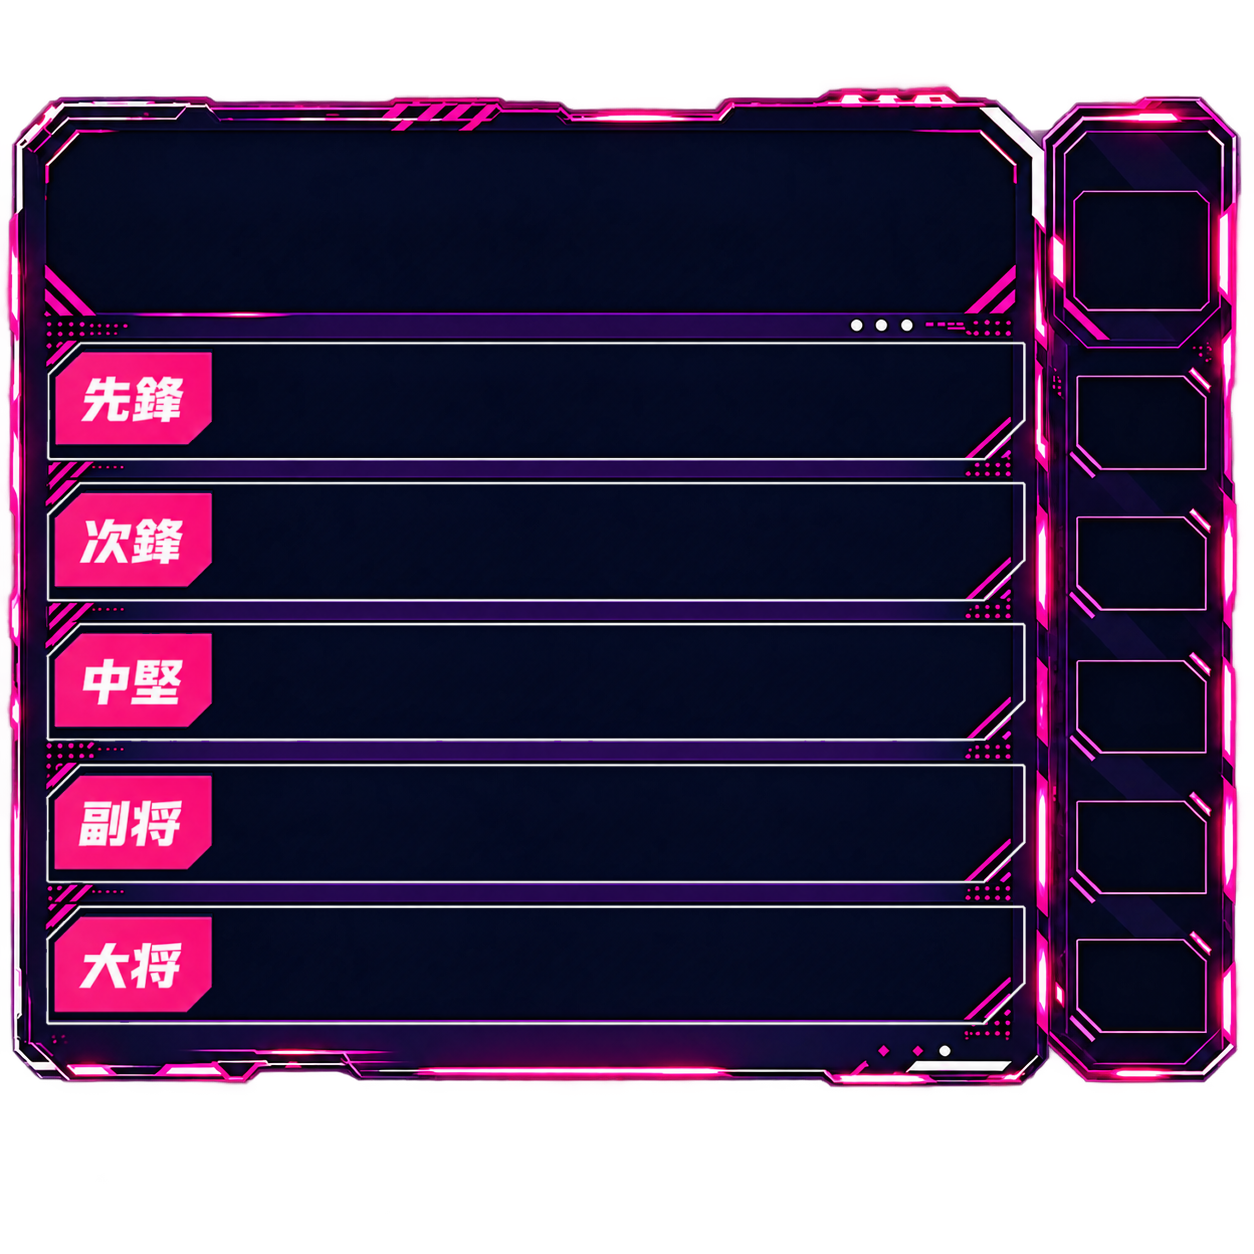
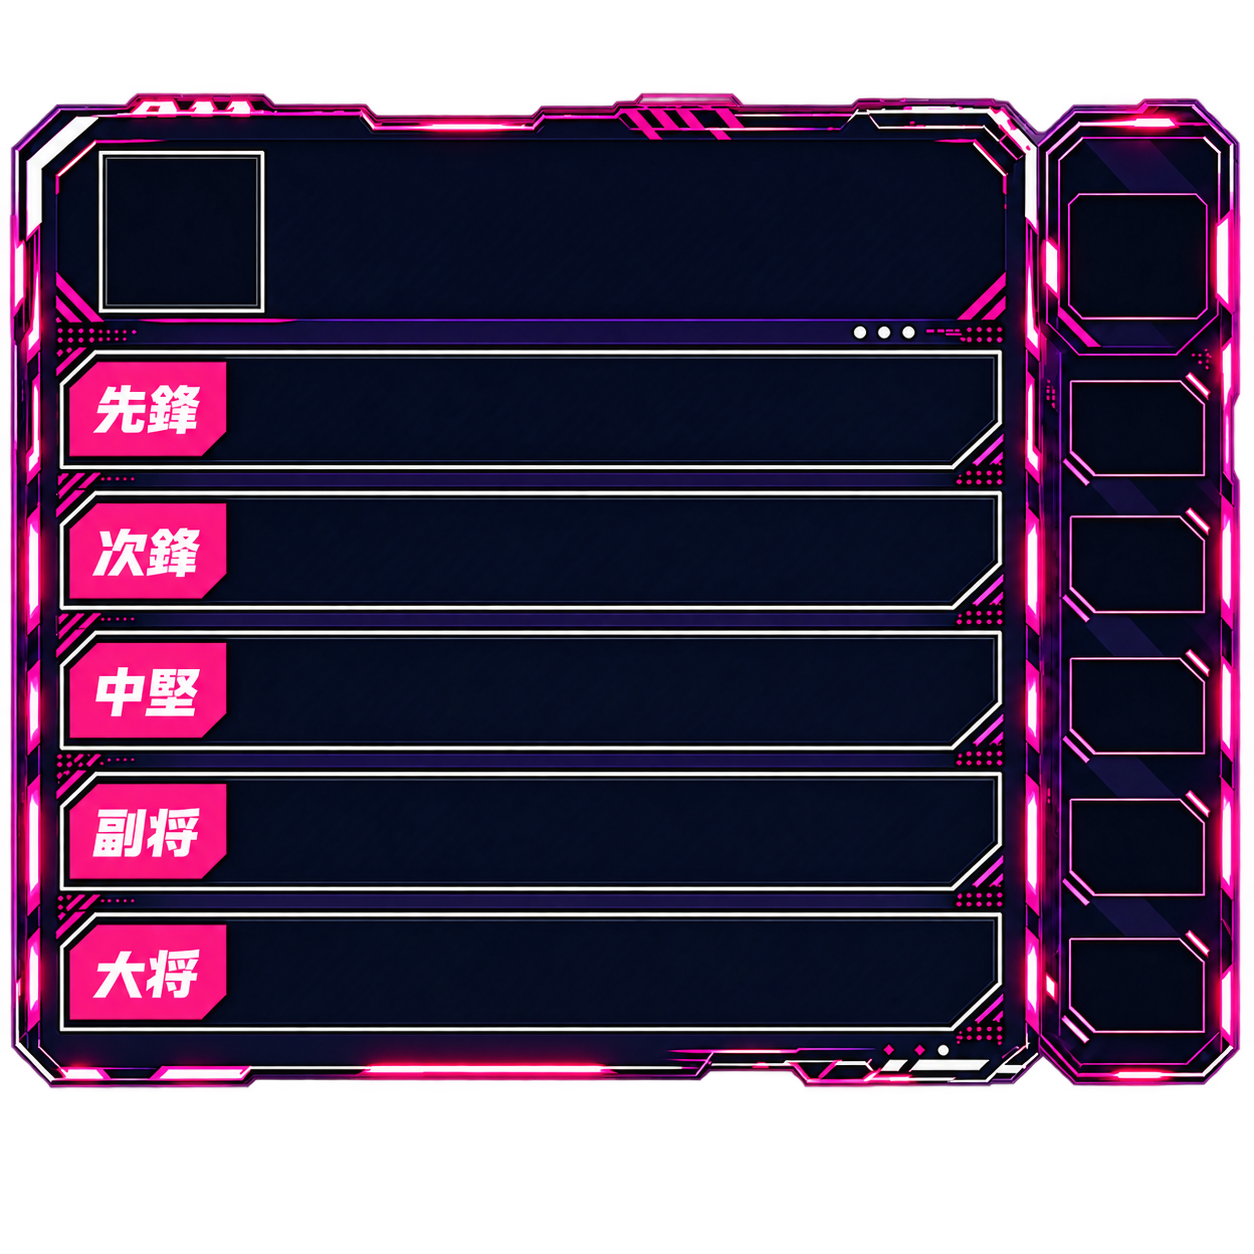
部門紹介画面背景の修正とレイアウト修正

Changed region(s): [[0.0, 0.0622, 0.9952, 0.8708]]

diff --git a/src/components/DivisionCard.tsx b/src/components/DivisionCard.tsx
@@ -83,12 +83,12 @@ export function DivisionCard({
 
     function displayTeamPoints(teamName: string) {
         return (
-            <div className="flex flex-col gap-9.5 items-center justify-center text-4xl">
+            <div className="flex flex-col gap-9 items-center justify-center text-4xl">
                 <p className="h-[75px] text-6xl font-bold">
                     {divisionPoint(teamName)}
                 </p>
 
-                <div className="flex flex-col gap-6.5">
+                <div className="flex flex-col gap-[30px]">
                     {roundPoints(teamName).map((roundPoint, i) => (
                         <div
                             key={i}
@@ -127,13 +127,13 @@ export function DivisionCard({
                         w-[800px] aspect-[1/1]
                         flex
                         [text-shadow:_0_0_10px_red]
-                        py-18"
+                        py-19"
                     style={{backgroundImage: `url(${url_card_teamA})`}}
                 >
                     <div className="w-[666px] pl-6 pr-4">
-                        <div className="w-full h-[120px] flex items-center pl-6">
+                        <div className="w-full h-[120px] flex items-center pl-8">
                             <img
-                                className="w-[100px] h-[100px] block"
+                                className="w-[110px] block"
                                 src={url_logo_teamA}/>
                             <div className="w-full text-6xl font-bold italic">
                                 {teamNameA}
@@ -145,7 +145,7 @@ export function DivisionCard({
                         </div>
                     </div>
 
-                    <div className="w-[134px] pl-5 pr-7 pt-9">
+                    <div className="w-[134px] pl-4 pr-8 pt-8">
                         {displayTeamPoints(teamNameA)}
                     </div>
                 </div>
@@ -163,17 +163,17 @@ export function DivisionCard({
                         w-[800px] aspect-[1/1]
                         flex
                         [text-shadow:_0_0_10px_blue]
-                        py-18"
+                        py-19"
                     style={{backgroundImage: `url(${url_card_teamB})`}}
                 >
-                    <div className="w-[128px] pl-6 pr-5 pt-9">
+                    <div className="w-[128px] pl-6 pr-5 pt-8">
                         {displayTeamPoints(teamNameB)}
                     </div>
 
                     <div className="w-[666px] pl-4 pr-6">
-                        <div className="w-full h-[120px] flex items-center pl-6">
+                        <div className="w-full h-[120px] flex items-center pl-8">
                             <img
-                                className="w-[100px] h-[100px] block"
+                                className="w-[110px] block"
                                 src={url_logo_teamB}/>
                             <div className="w-full text-6xl font-bold italic">
                                 {teamNameB}
